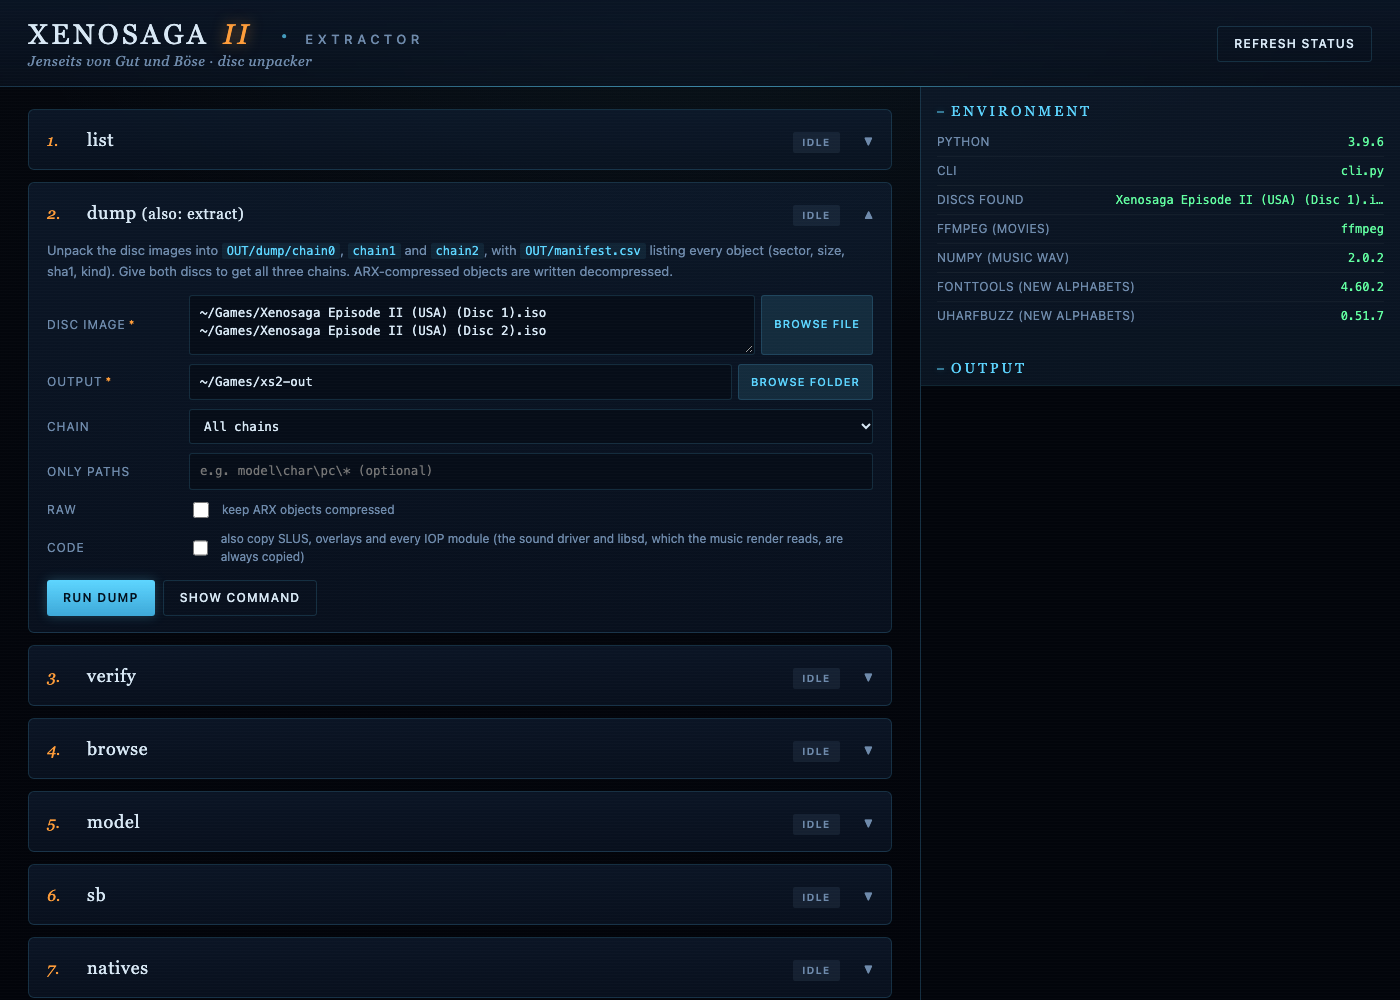
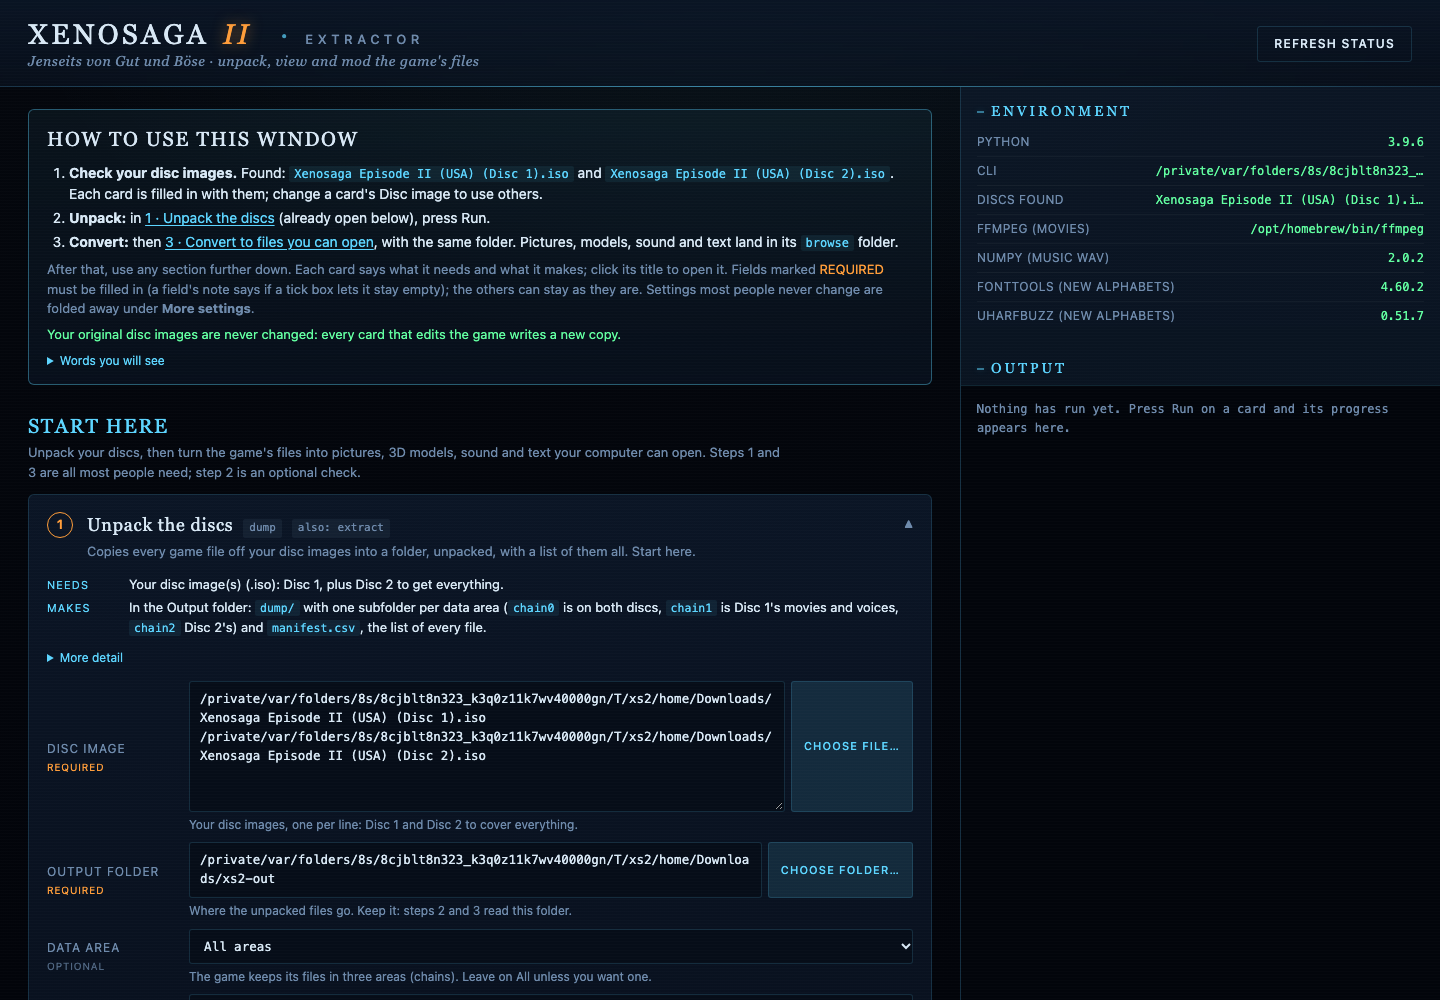
Fun facts page; the window screenshot shows the grouped cards

diff --git a/docs/FUN-FACTS.md b/docs/FUN-FACTS.md
@@ -1,0 +1,264 @@
+# Fun facts about Xenosaga Episode II
+
+Things learned while taking the discs apart. Almost all of them come from
+the retail discs and can be checked with this kit: USA SLUS-20892 /
+SLUS-21133, plus the Japanese SLPS-25368 / 25369 and the 2004 demo on
+*Xenosaga Freaks* where noted. Each fact names where to look. The few
+facts from outside the disc are linked to their source. The longer write-ups
+are in [FINDS.md](FINDS.md) (leftovers) and [HISTORY.md](HISTORY.md)
+(timeline).
+
+**Contents:** [The people on the disc](#the-people-on-the-disc) ·
+[How it was built](#how-it-was-built) · [Words](#words) ·
+[Music and sound](#music-and-sound) · [Movies](#movies) ·
+[Models and motion](#models-and-motion) · [Under the hood](#under-the-hood) ·
+[Left on the disc](#left-on-the-disc) · [Between Episode I and III](#between-episode-i-and-iii) ·
+[By the numbers](#by-the-numbers)
+
+## The people on the disc
+
+* **Half the disc is still filed by staff name.** All 1,147 effects live in
+  `simajiri\`, the battle in `yamamoto\`, the menus in `yosikawa\`, the
+  quests in `iwase\`, field objects in `matumoto\`, and the title and ending
+  art in `yajima\`. The engine asks for these folders by name:
+  `yosikawa\MainMenu.txd` is a string in the executable.
+* **Every scene script signs its writer.** Each `.sb` ends with its source
+  path: `nakahara\` wrote 209 scenes, `koji\` 55, `fuji\` 43, `yonesaka\` 23,
+  `kuramoto\` 12.
+* **Someone signed off on the subtitles.** The sample subtitle file in the
+  movie folder ends its header with `;11/21米坂チェック`, "11/21, Yonesaka's
+  check" (`movie\en\s010100.txt`).
+* **The developers' home folders are still in the code.** The executable asks
+  for `host0:/home/xeno/vcd-f/x2/sound/smf/%s.prj` and
+  `host0:/home/xeno/work/iwase/jr00.pxy`. In those paths `x2` is the game and
+  `x2u` the USA build.
+* **One music file leaked a Windows drive letter.** The padding after one
+  sample in `107_home.vsf` holds `\DosDevices\R:` in UTF-16, from the PC that
+  built the bank.
+
+## How it was built
+
+* **The demo came first, then Japan, then the USA.** Counting changed
+  functions puts the January 2004 *Freaks* demo first, then the Japanese
+  retail build (version 1.02), then the USA build (version 1.00). The USA
+  build is the newest even though its version number is lower.
+  ([xs2-analysis JP report](#sources))
+* **The two releases are nearly the same program.** After relocations are
+  masked, 96% of the Japanese main code is byte-identical to the USA's, built
+  with the same compiler (ee-gcc 2.96), Sony SDK 2.7 and CRI middleware
+  (`Build:Jan 23 2004`).
+* **The USA cutscenes were re-muxed months later.** The Japanese movies
+  carry Sofdec mux dates around February 13, 2004; the USA movies mostly
+  September 15, 2004, a few as late as November 25.
+* **The USA discs were mastered on December 10, 2004:** Disc 1's file system
+  was written at 12:57 and Disc 2's at 13:45, about two months before the
+  [February 15, 2005](https://en.wikipedia.org/wiki/List_of_Xenosaga_media)
+  release (ISO 9660 volume descriptors).
+* **Both discs run the same program.** `SLUS_208.92` (Disc 1) and
+  `SLUS_211.33` (Disc 2) are byte-identical, and so are the three bigfile
+  tables `XENOSAGA.00`-`.02`. The same goes for the two Japanese discs.
+* **The USA build added a debug test menu** that the Japanese one lacks:
+  17.7 KB of code whose menu lists FONT, PAD, HDD, MEMCARD, RESOURCE, IPU,
+  SOUND, CAPTION, NISUI and EDGE (US `0x1e9740`-`0x1edcb0`).
+* **Japan kept something the USA dropped:** a `yamamoto\think\` folder of
+  116 battle-AI scripts, and the debug scenes `sc6301` and `sc7997`-`sc7999`.
+
+## Words
+
+* **Japanese test lines hide in the English script.** 127 of the 9,699
+  English text-bank lines are Japanese placeholders: `11テストメッセージ表示中`
+  ("11 test message, displaying", 63 copies) and `12の人です` ("this is person
+  12", 64 copies).
+* **There is a quest you cannot fail, and the failure text says so.** For
+  "Send Him My Love!" the failure message reads: "You cannot fail this
+  quest. A flag that cannot exist has come up. xxxxxxxxxx xxxxxxxxxx"
+  (`iwase\QuestMes.txt`).
+* **The longest string in the game is a recap of Episode I.** Chapter 7 of
+  the in-game "Drama Series Ep. I" synopsis is 1,556 characters long, one of
+  nine chapters shown in `cf\sc1610`.
+* **The most-used line is "Yes | No"**, a choice that appears 295 times.
+  Next come the two Japanese placeholders above, then "Target destroyed!"
+  (56) and "Use the elevator?" (34).
+* **"Okay! Tony! Hit it!" is written out 26 times** in one scene script
+  (`sc2510`).
+* **"Miltia" is the most-mentioned proper name** in the text, 260 times,
+  ahead of Shion (166), MOMO (132) and KOS-MOS (97).
+* **The Professor talks the most.** Among field text boxes that name their
+  speaker, the Professor has 319 lines, almost three times as many as
+  the next speaker, Matthews (109).
+* **The USA game cannot print kanji.** The USA font renderer draws bytes from
+  0x80 up as Latin-1 letters (through lead byte A9), so the Japanese
+  placeholders above show up as accented garbage in the English game. The
+  Japanese build reads the same bytes as EUC-JP.
+* **The Japanese release keeps its text inside the scripts.** The USA discs
+  move all dialogue into separate `.sbl` banks under `en\` folders. The
+  Japanese discs and the demo have neither: each `.sb` carries its own EUC-JP
+  text.
+* **The quest and citizen text is Shift-JIS, the rest is not.** The
+  `iwase\*.txt` files and the `#scn` notes use Shift-JIS; the movie
+  subtitles use EUC-JP. Two Japanese encodings sit on the same English disc.
+
+## Music and sound
+
+* **The field music runs on a KORG driver that shipped with its symbols.**
+  `IOP\KORGIVAG.IRX` ("KORG IOP Sound Driver … test19, (C)2001-2004 KORG
+  Inc.") still has 239 named functions, 91 named statics and its full debug
+  table. That is how this kit's renderer learned the driver's rules.
+* **The field songs are real MIDI files.** No other Xenosaga does this: the
+  31 field and menu songs are Standard MIDI files played on KORG sample banks
+  (`.vsf` + `.prj`). Each song sets its own reverb from inside the MIDI and
+  labels the controllers with text events (`FX1 MODE`, `FX1 DELAY`,
+  `FX1 FEEDBACK`).
+* **The songs still carry their working titles.** `001_milchia` calls itself
+  `001_miltia`, `006_ormus` is `006_olmus`, and both `008_imaginary_territory`
+  and `111_moby-dick` say `an_chloe` inside.
+* **Second Miltia's theme is song 106, not 002**, and Subconscious Domain is
+  109, not 003. Track numbers on the disc don't follow the order you might
+  guess. ([MUSIC.md](MUSIC.md))
+* **The crash cymbal rings because of one byte.** Byte +12 of a drum key is a
+  "hold" flag: the driver skips the note-off and lets the one-shot sample play
+  out. 554 music keys hold, including every drum kit. A SoundFont render cuts
+  the 0.5 s crash to 0.14 s; the kit's own SPU2 renderer lets it ring.
+* **Song 001's echo repeats every 537.7 ms**, from the SPU2's
+  `(128 × (delay + 1) − 24) / 24000` rule. A game rip measures 538.
+* **Kajiura's cutscene score is never on the disc by itself.** The music
+  heard in the movies and real-time events exists only premixed with voice
+  and effects. The clean music on the disc is Hosoe and Saso's gameplay
+  score: 31 KORG sequences and 7 recorded ADX tracks (battle, boss, fanfare,
+  title). ([music-sources.md](research/music-sources.md))
+* **The voices are in the centre channel.** In the movies' AC3 5.1 track,
+  the centre channel carries about 84% of the speech energy during spoken
+  lines, so leaving it out lowers the dialogue by 5.6 to 8 dB.
+* **The ADX stereo is its own mix, not a downmix** of the 5.1 track; the AC3
+  runs 26 ms behind it.
+* **54 voice clips are never called.** One-line clips named by speaker
+  (`030920_Albedo_01` … `_Rubedo_09`, `_Negredo_0x`, `040400_margulis_0x`,
+  `_pope_0x`, `040700_Juli_0x`, `_MOMO_0x`, `050106_shion_0x`) sit in
+  `sound\adx\cfevent`, but no script and no string in the executable names
+  them. ([DIALOGUE.md](DIALOGUE.md))
+* **The real-time event "voice" tracks are full mixes.** The 88 cutscene
+  ADX files hold ambience, music and voice together, and each starts on the
+  scene's first `cfe.stKySnd` keyframe (all 78 voiced events check out).
+
+## Movies
+
+* **The boot screens credit Dolby, and they mean it.** `credit.bin` holds
+  six boot screens: Namco, the Monolith Software tower ("M.L.S.I."), CRI's
+  Sofdec and ADX, KORG, Dolby Digital Pro Logic II, and "Produced by NAMCO".
+  CRI's Pro Logic II encoder (`PL2ENC Ver.1.00`) is linked in, and every
+  cutscene carries an AC3 5.1 track next to its ADX stereo.
+* **Movies are 512 × 448**, taller than Episode III's 512 × 320.
+* **44 of the 50 movies have the same video in Japan and the USA**: only
+  the audio and the subtitle files differ.
+* **The title logo has two versions on the disc**, one reading "DISC 1" and
+  one "DISC 2" (`yajima\title.bin`, `title2.bin`), with "© 2001 2004 NAMCO
+  LTD."
+
+## Models and motion
+
+* **944 models**, and 562 of them have a skeleton that fits the mesh.
+* **About one triangle in thirty is stored facing backwards**, so the kit
+  orients faces by their normals and makes materials double-sided.
+* **The texture files keep the artists' names:** `shion00_hair`,
+  `kosmos00_face`. KOS-MOS's hair band is in four different files, each with
+  its palette somewhere else, which is why one paint job has to reach all
+  four.
+* **All 4,340 motion clips decode**, in 550 files, at 30 keys a second.
+  Hair, coats and skirts are not animated in them: the game simulates that
+  cloth at run time.
+* **The skeleton files have no joint names.** Bones are numbers only.
+* **The `_grass_col` textures look blank but aren't**: they are a single
+  colour, with all of the detail in the alpha channel.
+* **The citizen portraits hide their palette in a corner.** The 50 citizen
+  portraits and 18 item cards keep their 16-colour palette in the top-right
+  16 × 16 corner of the image, and a 1-bit mask file cuts the rounded frame.
+
+## Under the hood
+
+* **Java is gone.** Episode I ran its scenes as Java classes (JDK 1.1).
+  Episode II replaced them with Monolith's own 16-bit stack machine (`.sb`),
+  which has 46 opcodes. Two of them never occur on the disc, and four have
+  byte-identical handlers: the compiler used them only to label which kind of
+  literal it was pushing. ([SCRIPTS.md](SCRIPTS.md))
+* **Scripts call about 270 named natives** such as `talk.msgDtl`,
+  `runtime.mapChange`, `cfe.setMes` and `bat.namePut`, registered by class
+  name from tables in the executable.
+* **Most of the code is new.** Only about 7% of the game code has a close
+  relative in Episode I and 12% in Episode III; 84% matches neither. The
+  graphics library from Episode I (`xgl`) still sits intact, in Episode I's
+  order.
+* **The VU microcode looks ahead, not back.** The vector-unit programs share
+  80% with Episode III and nothing with Episode I.
+* **The dialogue loaders have fixed rooms.** A scene's text bank must fit in
+  0x20000 bytes and a map's in 0x12000, which sets how far a translation can
+  grow. ([MODDING.md](MODDING.md))
+* **Movie subtitles can barely grow.** Lengthening a subtitle by 52
+  characters corrupted the video data in PCSX2 ("Invalid Unpack", 2 FPS).
+  Comments and moving the file are free, but the displayed text has almost no
+  slack.
+
+## Left on the disc
+
+* **The game can install to a PS2 hard disk.** The title menu sheet has
+  INSTALL and UNINSTALL next to NEW GAME, CONTINUE, EXIT and THEATER, and
+  the code behind them is real: it formats 256 MB partitions, writes
+  `pfs0:/xenosaga.hdd`, and saves into the North American hard disk's shared
+  area.
+* **It remembers Episode I's save folder** (`/BASLUS-20469Xeno`) next to its
+  own (`/BASLUS-20892Xeno2`).
+* **The code asks for eleven files the disc doesn't have**: one memory-card
+  file per character or E.S. (`yajima\mc\kosmos.bin`, `shion.bin`,
+  `r02.bin`…), plus an HDD icon.
+* **The save icon is titled in full-width letters:**
+  `ＸｅｎｏｓａｇａＥＰＩＩ−００［００：００］` (`carddata.bin`).
+* **The menu sheet names are a fixed table** of 24-character slots in the
+  executable (SLUS `0x3eae40`).
+
+## Between Episode I and III
+
+* **Episode III was mastered with Episode II's tool.** Every table of
+  contents is padded with a repeated signature, `MONOLITHSOFT Xenosaga
+  Episode.2`, and Episode III's `X3.00`, `X3.10` and `X3.20` carry the same
+  words. One parser in this kit reads both games' tables.
+* **The disc is a halfway house:** Episode I's table of contents, ARX
+  compression and bitmap fonts, with Episode III's model, texture, skeleton,
+  motion and script formats, stored loose rather than in packages.
+* **Episode II added name compression** to Episode I's table of contents:
+  each name stores only what differs from the one before it.
+* **The KORG sound driver appears only in Episode II.** Episode I used
+  Procyon sequences and Episode III uses DTPK banks.
+* **Sony SDK versions climb one per game:** 2.4, 2.7, 3.0.
+* **No symbols survive for the game code.** A byte scan of all five images
+  (USA, Japan and the demo) found no symbol tables or map files outside the
+  two IOP modules that kept theirs (KORG, and CRI's ADX with 23 source
+  files). Episode I *Reloaded*, built in 2003 with the same SDK, is already
+  stripped.
+
+## By the numbers
+
+| | |
+|---|---|
+| Objects on the two USA discs | 9,043 |
+| Texture pages decoded | 65,938 (+1,333 inside effect files) |
+| Models / with a skeleton | 944 / 562 |
+| Motion clips | 4,340 in 550 files |
+| Effects | 1,147 (all in `simajiri\`) |
+| Dialogue strings | 9,699 in 465 banks |
+| Lines in play order | 8,318 from 363 scripts |
+| Menu strings | 903 |
+| Battle names and descriptions | 1,085 |
+| Strings in the executables | 3,498 + 678 + 47 |
+| Field and menu songs | 31 |
+| Named sound samples | 3,733 from 1,074 KORG banks |
+| Cutscenes | 45 movies with subtitles, 80 timed real-time events |
+| Event voice files | 145 (91 used by scripts, 54 never named) |
+
+## Sources
+
+Disc facts come from this kit run on the retail discs, and the matching doc
+is linked where one exists. The Japanese-versus-USA comparison (build order,
+mux dates, debug menu, `think\` scripts, shared movie video) and the
+code-similarity and symbol-scan figures come from the author's analysis
+workspace for this kit, which holds no game data and is not published; the
+numbers can be rebuilt with `region.py` and a byte diff of the two
+executables. Release dates: [HISTORY.md](HISTORY.md).

diff --git a/README.md b/README.md
@@ -43,7 +43,8 @@ examples.*
 [Changing textures](#changing-textures) · [Translating](#translating-into-another-alphabet) ·
 [Text coverage](#text-coverage) · [Audio samples](#audio-samples) ·
 [Movies, fonts and menus](#movies-fonts-and-menus) · [The window](#the-window) ·
-[Regions](#regions-and-the-demo-disc) · [Still open](#still-open) · [Docs](#docs)
+[Regions](#regions-and-the-demo-disc) · [Still open](#still-open) · [Docs](#docs) ·
+**[Fun facts](docs/FUN-FACTS.md)**
 
 ## Quick start
 
@@ -359,7 +360,7 @@ new command appears on its own; each field gets a picker for disc
 images and folders, "Show command" prints the command line it will run, and
 the output streams into the log on the right. The panel lists the discs found
 next to the kit and in the usual folders, and which optional tools are
-present. (The disc paths in this screenshot are example names.)
+present. (The discs in this screenshot are empty stand-ins with the usual file names.)
 
 ## Regions and the demo disc
 
@@ -454,6 +455,7 @@ its name. Relocating a file past the end of Disc 1 is proven in the game.
 | [MUSIC.md](docs/MUSIC.md) | render the music and see how the renderer was checked |
 | [FORMATS.md](docs/FORMATS.md) | see the byte layout of every format and how it was proven |
 | [CODEBASE.md](docs/CODEBASE.md) | find your way around the code and `tools/` |
+| [FUN-FACTS.md](docs/FUN-FACTS.md) | read sixty-odd things the disc gives away: staff folders, a quest you cannot fail, the KORG driver, an unused hard-disk installer |
 | [FINDS.md](docs/FINDS.md), [HISTORY.md](docs/HISTORY.md) | read about curiosities left on the disc and the background |
 | [UPDATES.md](docs/UPDATES.md) | see what changed, release by release |
 
